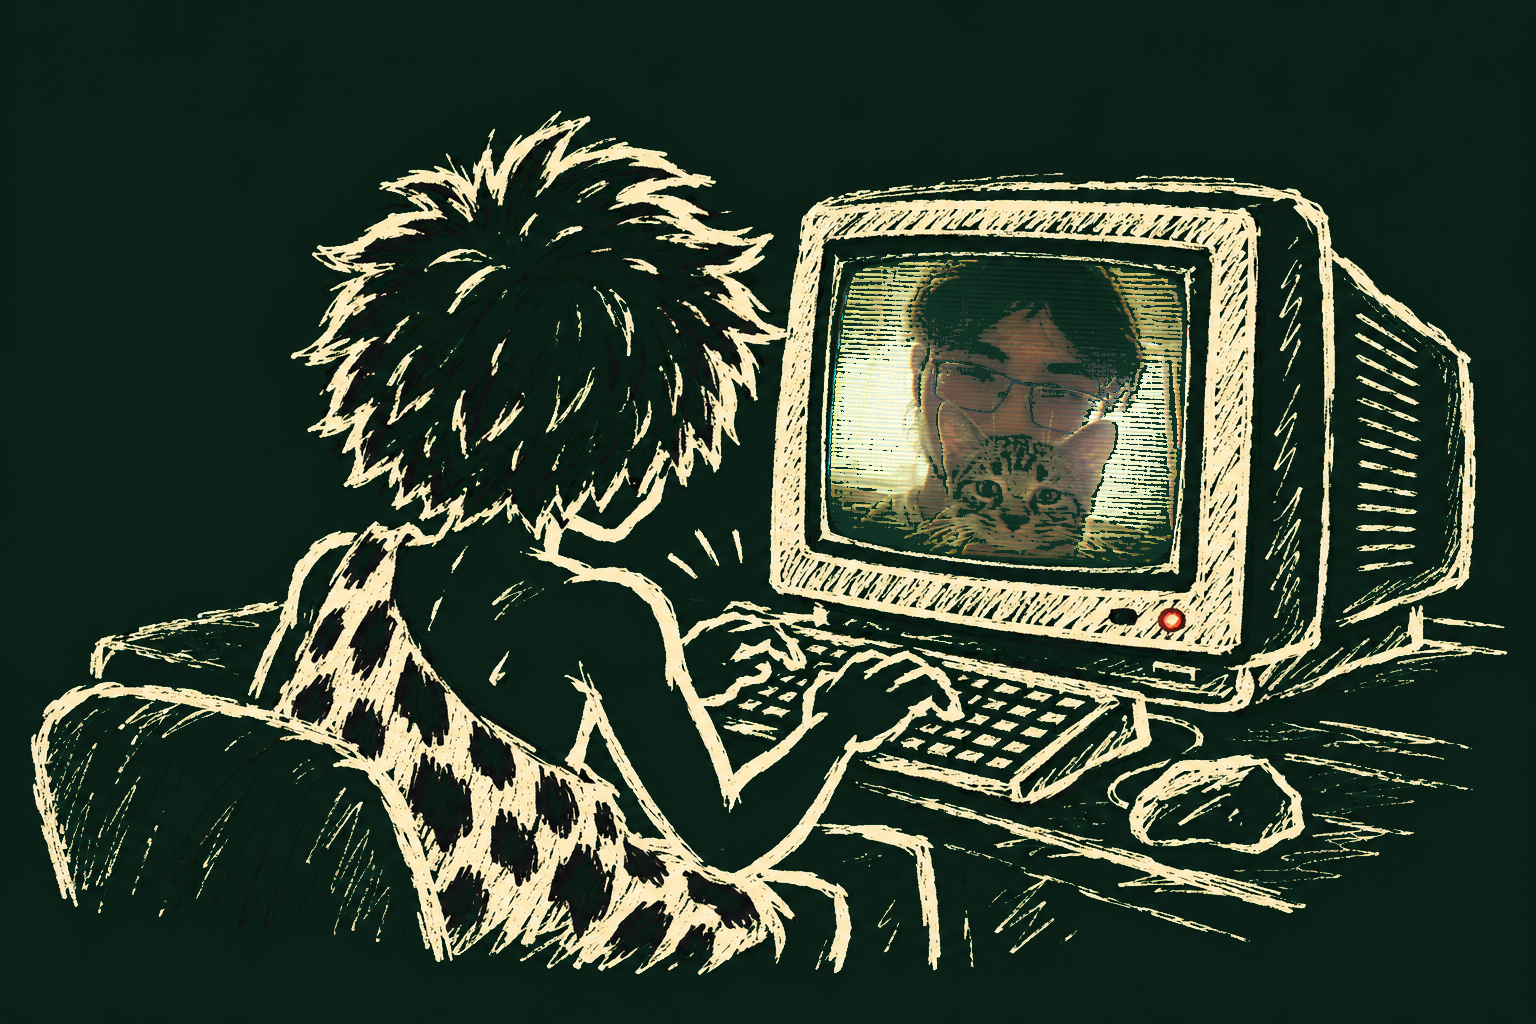
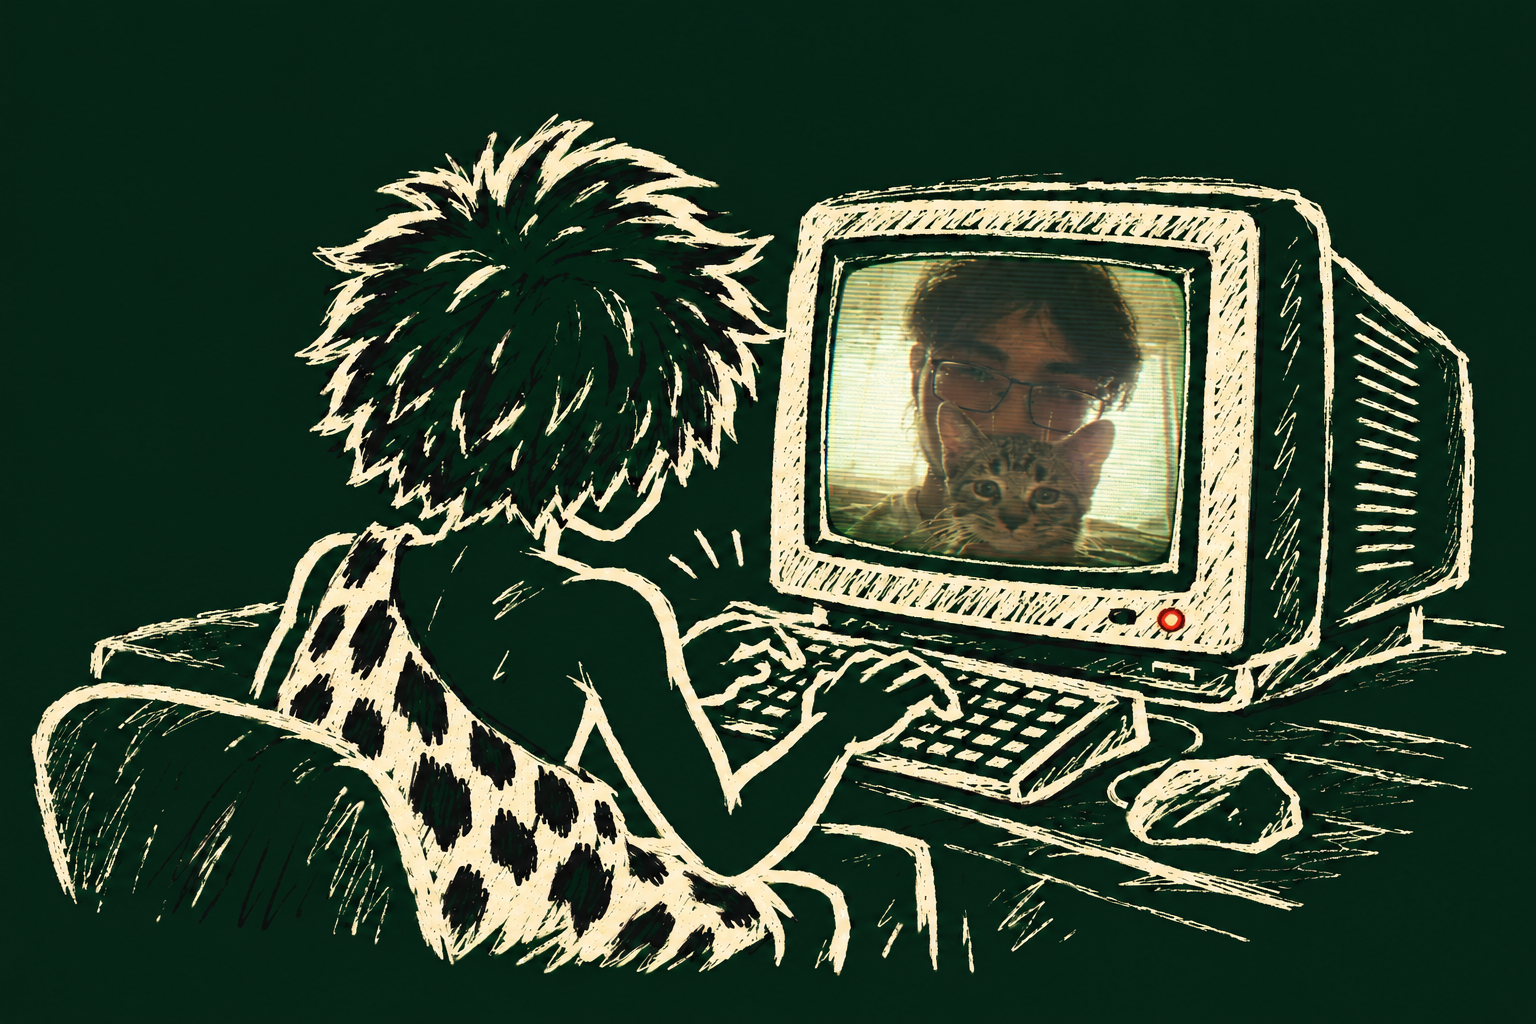
Add article epilogue, reader support, and draft filtering

diff --git a/src/content.config.ts b/src/content.config.ts
@@ -16,6 +16,16 @@ const pieces = defineCollection({
 			published: z.coerce.date().optional(),
 			draft: z.boolean().default(false),
 			socialImage: z.string().optional(),
+
+			epilogue: z
+				.object({
+					message: z.string().default("Thanks for reading."),
+					supportText: z.string().optional(),
+					image: z.string().default("/images/site/support-caveman.png"),
+					imageAlt: z.string().default("A friendly caveman giving a thumbs-up"),
+					showSupport: z.boolean().default(false),
+				})
+				.default({}),
 		})
 		.refine((piece) => piece.draft || piece.published, {
 			message: "Published pieces must have a publication date.",

diff --git a/src/data/pieces/001-cat-colony.md b/src/data/pieces/001-cat-colony.md
@@ -4,6 +4,11 @@ title: "The Cats Started Watching Me Back"
 description: "What happened when feeding a small colony of community cats turned into an experiment in trust, communication, and how we model one another."
 draft: true
 socialImage: "/images/pieces/001-cat-colony/cat-friends-social.png"
+
+epilogue:
+  message: "The cats gave me something worth writing about."
+  supportText: "If this story gave you something too, you can help keep this little cave going."
+  showSupport: true
 ---
 
 This is Piece 001 of Something I Noticed.
